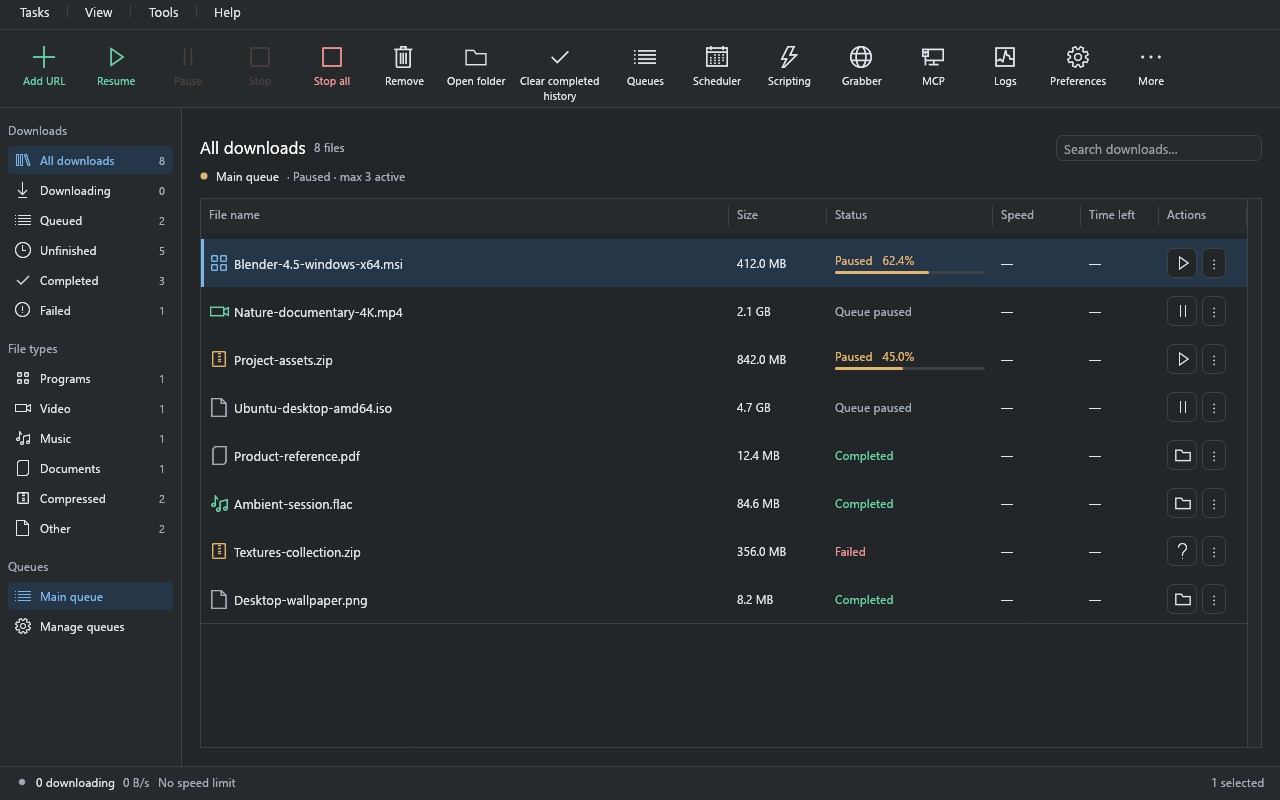
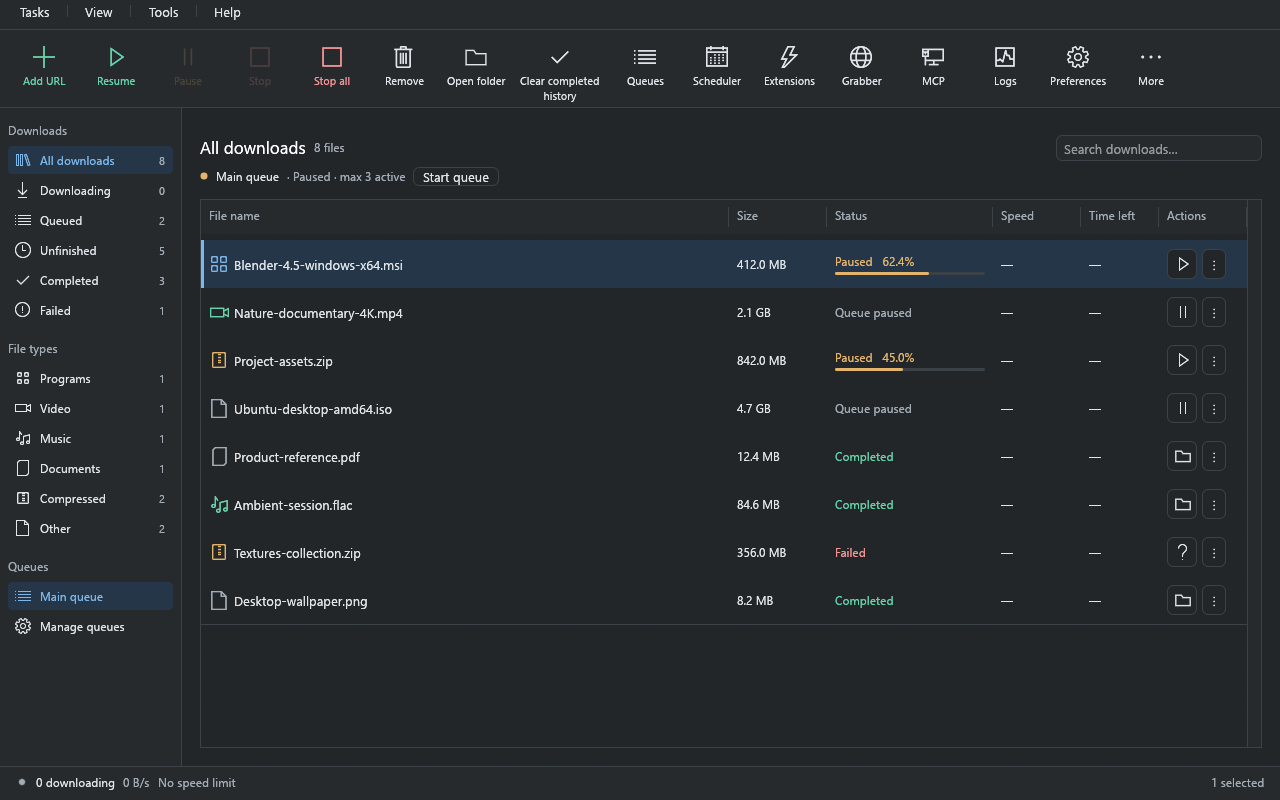
Add a demo to the README and keep one screenshot
- Add a 34-second tour of the app and browser extension, made from real
  screens with sample data, as a GIF because GitHub does not reliably
  play video files stored in a repository.
- Remove the second screenshot and the duplicate website link.
- Recapture the main screenshot so the toolbar says Extensions.
- List the GIF in the release source inventory.

diff --git a/README.md b/README.md
@@ -24,8 +24,6 @@
   <strong>Windows x64</strong> · Installer or portable · Chrome, Edge, Brave &amp; Firefox · MIT licensed
 </p>
 
-> **Official website:** [jasxtd.github.io/Download-Engine](https://jasxtd.github.io/Download-Engine/) — screenshots, supported sites, and download links.
-
 ![Download Engine in dark mode, showing download controls, queues and file progress](docs/images/downloads-dark.png)
 
 <p align="center"><em>Example desktop layout in dark mode, with sample downloads.</em></p>
@@ -47,6 +45,10 @@ complete IDM feature parity.
 > scripts, rules and run history.
 > Get the [installer, portable ZIP and browser extensions](https://github.com/JasXTD/Download-Engine/releases/tag/v3.6.0),
 > or read the [changelog](CHANGELOG.md) for everything since v3.5.2.
+
+![A short tour of Download Engine: the download list, adding a link, the browser extension's Download video button and media list, choosing video quality, queues, schedules, the website grabber, app extensions and custom themes](docs/images/download-engine-demo.gif)
+
+<p align="center"><em>A short tour of the real app and browser extension, with sample data.</em></p>
 
 ## Features
 
@@ -118,10 +120,6 @@ complete IDM feature parity.
   starts turned off, and each job keeps its own limits. Extensions install from a
   local file and publishers are not verified, so use only ones you trust. See the
   [extension guide](docs/extensions.md).
-
-![Download Engine with the Moonveil custom theme: artwork behind the toolbar, sidebar and download list](docs/images/readme-custom-theme.jpg)
-
-<p align="center"><em>The Moonveil custom theme, with sample downloads.</em></p>
 
 ## Supported video sites and formats
 
